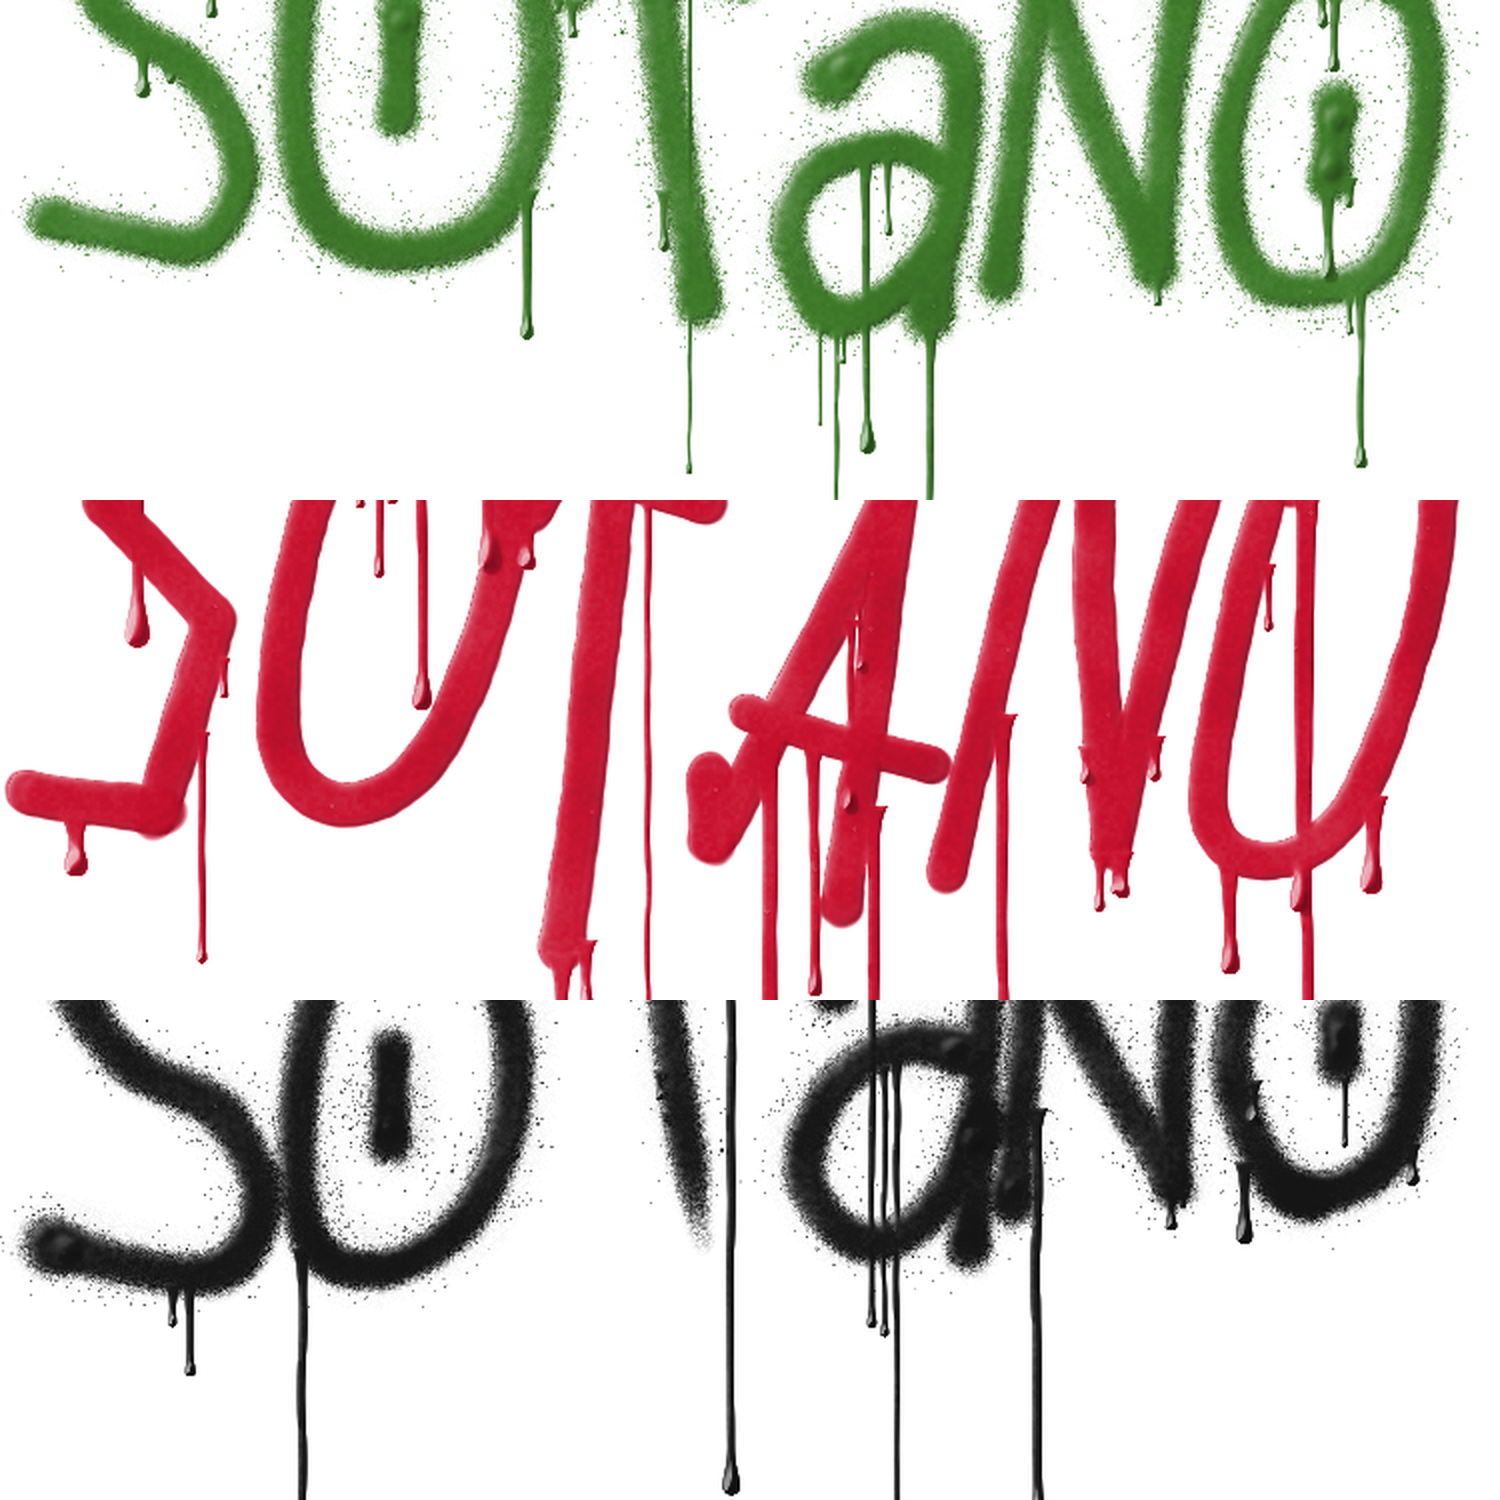
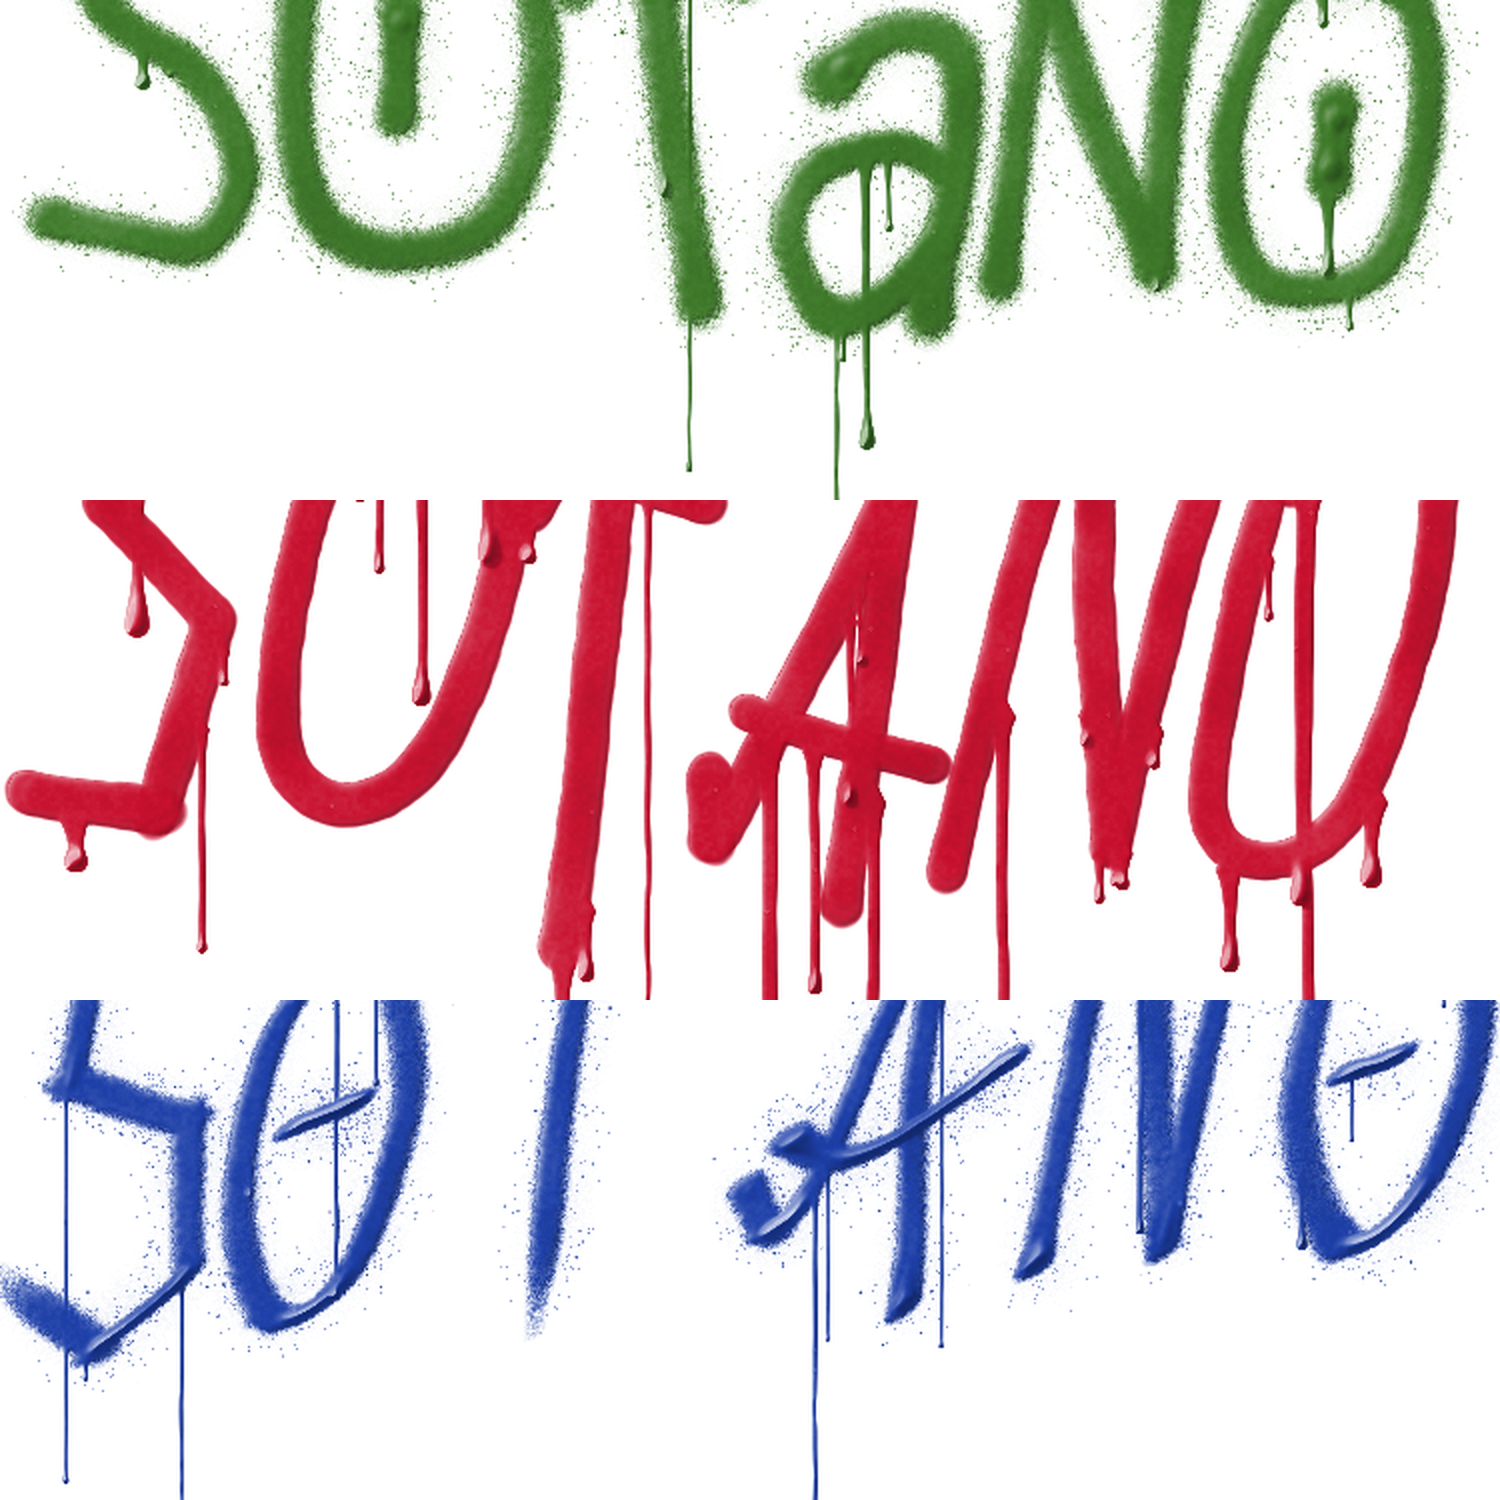
Graffiti (en curso, sin ccx): las gotas nacen en punta dentro de pintura maciza: sin corte plano
- dripExit exige pintura maciza y mide cuánta hay encima; la gota arranca tan hondo como haga falta sin asomar
- el arranque es una punta que se abre hasta el borde (donde se junta la pintura al salir), no un rectángulo

Claude-Session: https://claude.ai/code/session_01VPHARAUhx1iCr3dazRNKtN

diff --git a/js/ink.js b/js/ink.js
@@ -492,38 +492,46 @@ function paintStroke(canvas, pts, P, r, rgb, seed, opts) {
 // del final. Las cortas son solo un colgajo redondo bajo el trazo. Nunca flotan: si en su sitio no hay pintura,
 // no hay gota.   drips: [{ x, xc, y (un punto del trazo), w (medio ancho del hilo), len, bead, taper, sd }]
 function dripExit(buf, bx0, by0, bw, bh, x, y, gap) {
+  // baja por la columna x desde y mientras haya pintura MACIZA; devuelve la fila por la que sale y cuánta pintura
+  // maciza tiene encima (para que la gota arranque dentro de ella, nunca fuera)
   const X = Math.floor(x) - bx0; let Y = Math.floor(y) - by0;
-  if (X < 0 || X >= bw || Y < 0 || Y >= bh || buf[Y * bw + X] < 0.4) return null;
+  const T = 0.85;
+  if (X < 0 || X >= bw || Y < 0 || Y >= bh || buf[Y * bw + X] < T) return null;
   let last = Y, miss = 0;
-  for (Y++; Y < bh; Y++) { if (buf[Y * bw + X] >= 0.4) { last = Y; miss = 0; } else if (++miss > gap) break; }
-  return Y >= bh && miss === 0 ? null : by0 + last + 1;     // (la pintura sigue fuera de la caja: no se sabe dónde acaba)
+  for (Y++; Y < bh; Y++) { if (buf[Y * bw + X] >= T) { last = Y; miss = 0; } else if (++miss > gap) break; }
+  if (Y >= bh && miss === 0) return null;                     // (la pintura sigue fuera de la caja: no se sabe dónde acaba)
+  let top = last; while (top > 0 && last - top < 400 && buf[(top - 1) * bw + X] >= T) top--;
+  return { ye: by0 + last + 1, depth: last - top + 1 };
 }
 function drawDrips(buf, bx0, by0, bx1, by1, bw, drips, dens, hb) {
   const bh = by1 - by0;
   // de dónde sale cada una (mirando la pintura ya puesta, antes de dibujar ninguna)
   const live = [];
   for (const d of drips) {
-    const gap = Math.max(2, Math.round(d.w * 1.5));
-    let x = d.x, ye = dripExit(buf, bx0, by0, bw, bh, x, d.y, gap);
-    if (ye == null && d.xc != null) { x = d.xc; ye = dripExit(buf, bx0, by0, bw, bh, x, d.y, gap); }
-    if (ye == null) continue;
-    live.push(Object.assign({}, d, { x, y0: ye - Math.max(1.5, d.w * 2.2) }));
+    const gap = Math.max(1, Math.round(d.w));
+    let x = d.x, ex = dripExit(buf, bx0, by0, bw, bh, x, d.y, gap);
+    if (!ex && d.xc != null) { x = d.xc; ex = dripExit(buf, bx0, by0, bw, bh, x, d.y, gap); }
+    if (!ex || ex.depth < 3) continue;
+    // arranca bien dentro de la pintura (todo lo hondo que haga falta, sin asomar por arriba)
+    const inL = Math.max(2, Math.min(ex.depth - 1, d.w * 6 + 3));
+    live.push(Object.assign({}, d, { x, y0: ex.ye - inL, inL }));
   }
   for (const d of live) {
-    const w = d.w, len = d.len + (d.y0 < d.y ? 0 : 0), tip = w * (d.bead || 1.3), taper = d.taper || 0, y0 = d.y0, lenT = len + Math.max(1.5, w * 2.2);
+    const w = d.w, tip = w * (d.bead || 1.3), taper = d.taper || 0, y0 = d.y0, inL = d.inL, lenT = d.len + inL;
     const yA = Math.max(by0, Math.floor(y0)), yB = Math.min(by1 - 1, Math.ceil(y0 + lenT + tip + 1));
-    const lB = Math.min(lenT * 0.6, tip * 5.5);                               // tramo en que engorda hacia la gota
+    const lB = Math.min(d.len * 0.6, tip * 5.5);                               // tramo en que engorda hacia la gota
     for (let Y = yA; Y <= yB; Y++) {
       const yy = Y + 0.5 - y0;
       let hw;
       if (yy <= lenT) {
-        const t = yy / lenT;
+        const t = Math.max(0, yy - inL) / Math.max(1, d.len);
         hw = w * (1 - taper * t) * (1 + 0.1 * R.noise1(yy / (w * 5 + 2), d.sd + 1));
-        hw *= 1 + 1.5 * Math.exp(-yy / (w * 2.4 + 0.5));                      // embudo de salida
+        hw *= 1 + 1.3 * Math.exp(-Math.abs(yy - inL) / (w * 2.4 + 0.5));       // la pintura que se junta al salir del borde
+        hw *= smooth01(0, inL, yy);                                            // nace en punta, dentro de la pintura: sin corte
         const tb = smooth01(lenT - lB, lenT, yy); if (tip > hw) hw += (tip - hw) * tb * tb;
       } else { const e = yy - lenT; hw = e < tip ? Math.sqrt(tip * tip - e * e) : 0; }
       if (hw <= 0.02) continue;
-      const xc = d.x + w * 0.45 * R.noise1(yy / (w * 16 + 4), d.sd) * Math.min(1, yy / (w * 4 + 1));
+      const xc = d.x + w * 0.45 * R.noise1(yy / (w * 16 + 4), d.sd) * Math.min(1, Math.max(0, yy - inL) / (w * 4 + 1));
       const xA = Math.max(bx0, Math.floor(xc - hw - 1)), xB = Math.min(bx1 - 1, Math.ceil(xc + hw + 1));
       for (let X = xA; X <= xB; X++) {
         const dx = Math.abs(X + 0.5 - xc), al = Math.max(0, Math.min(1, hw - dx + 0.5)) * dens, k = (Y - by0) * bw + (X - bx0);
